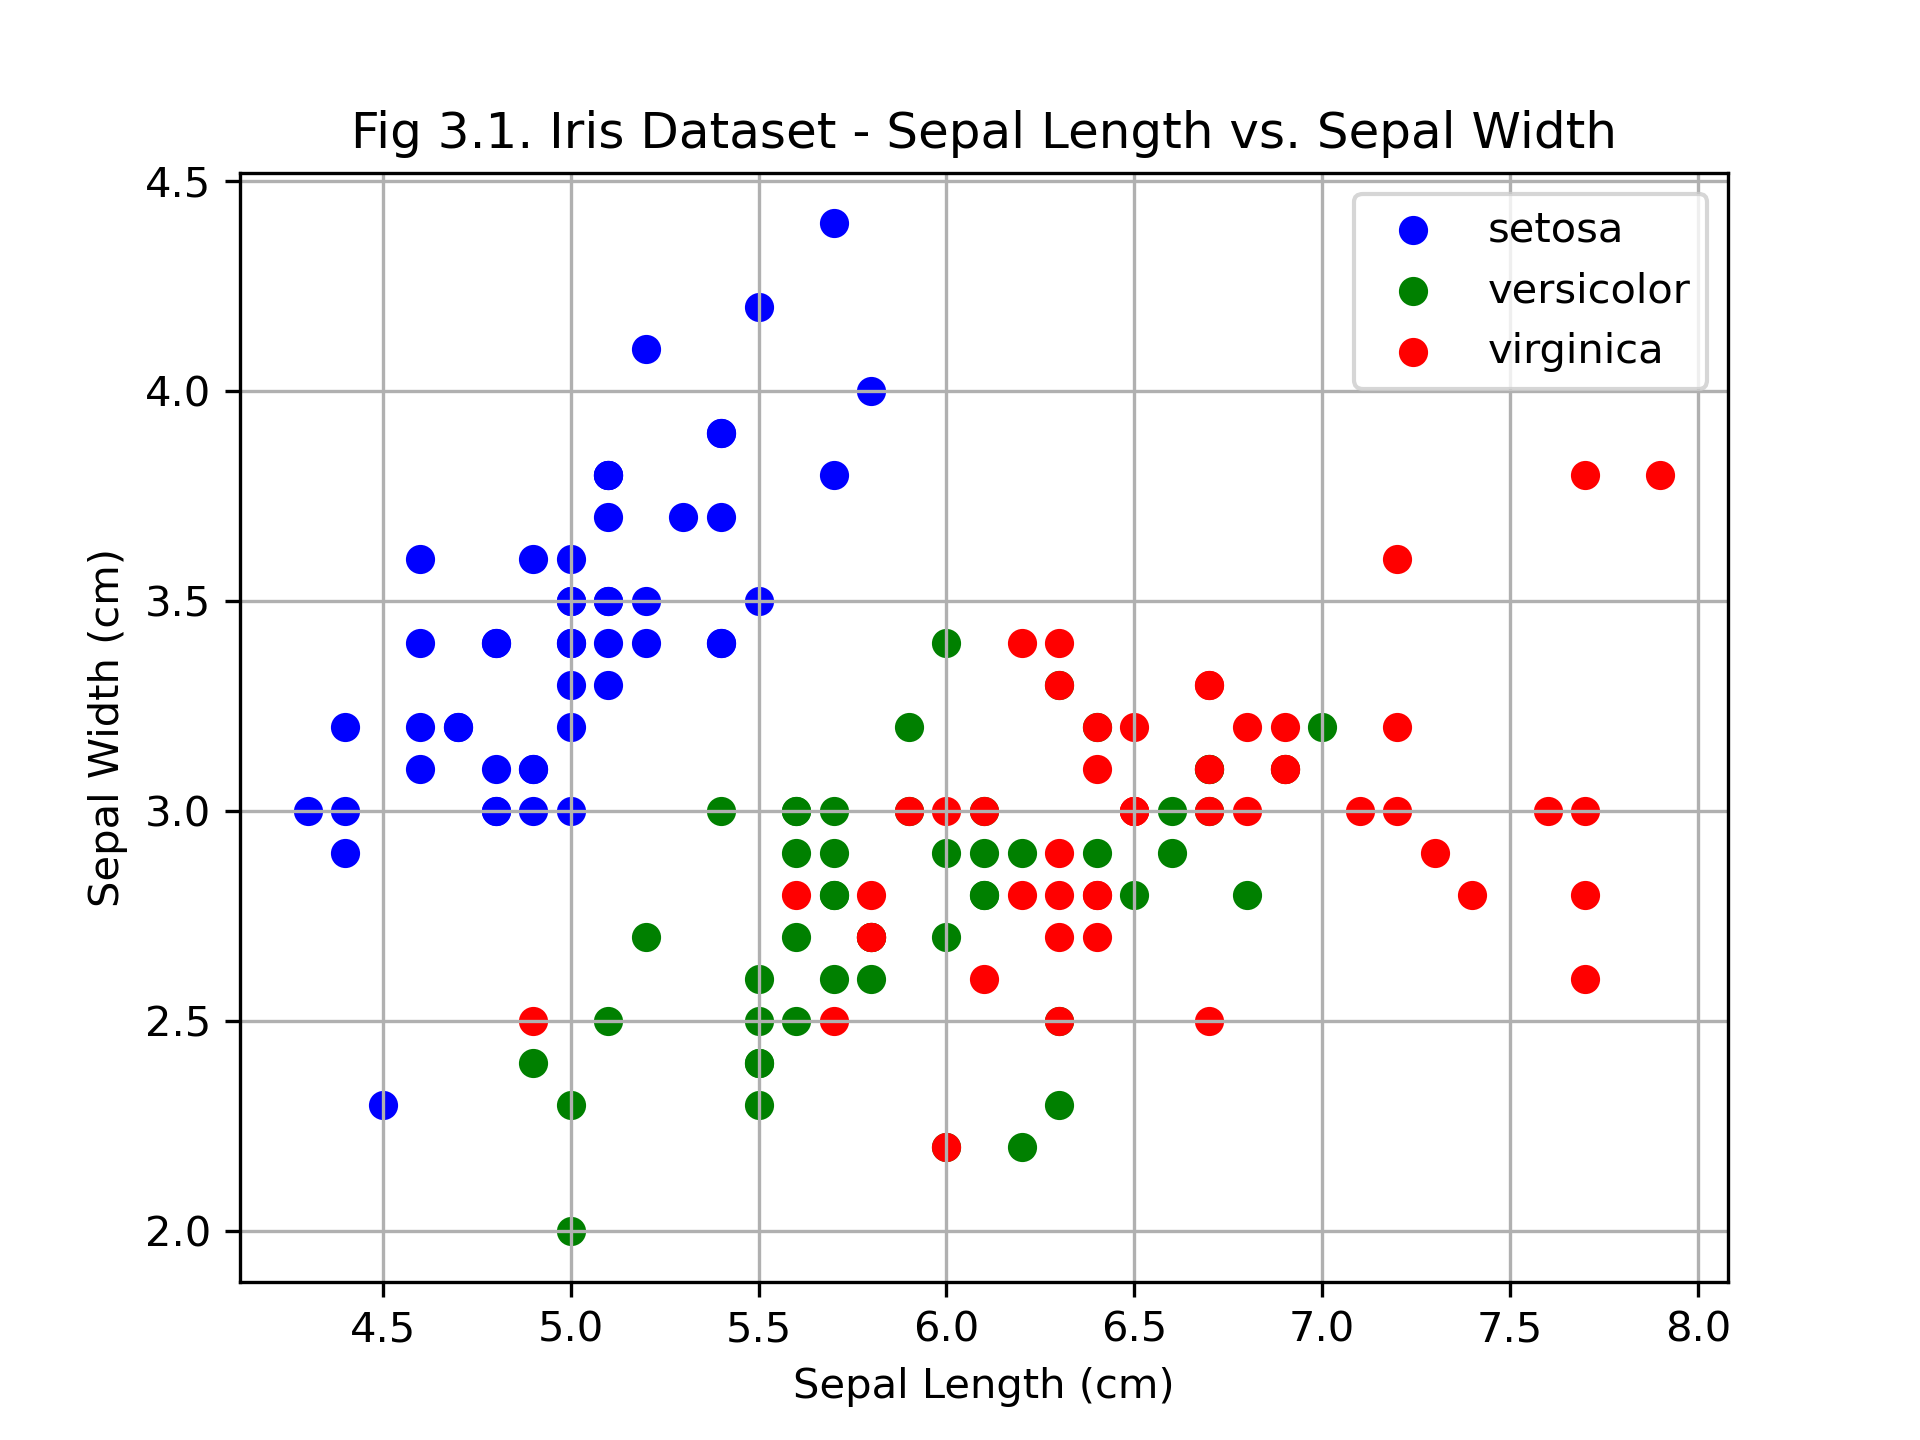
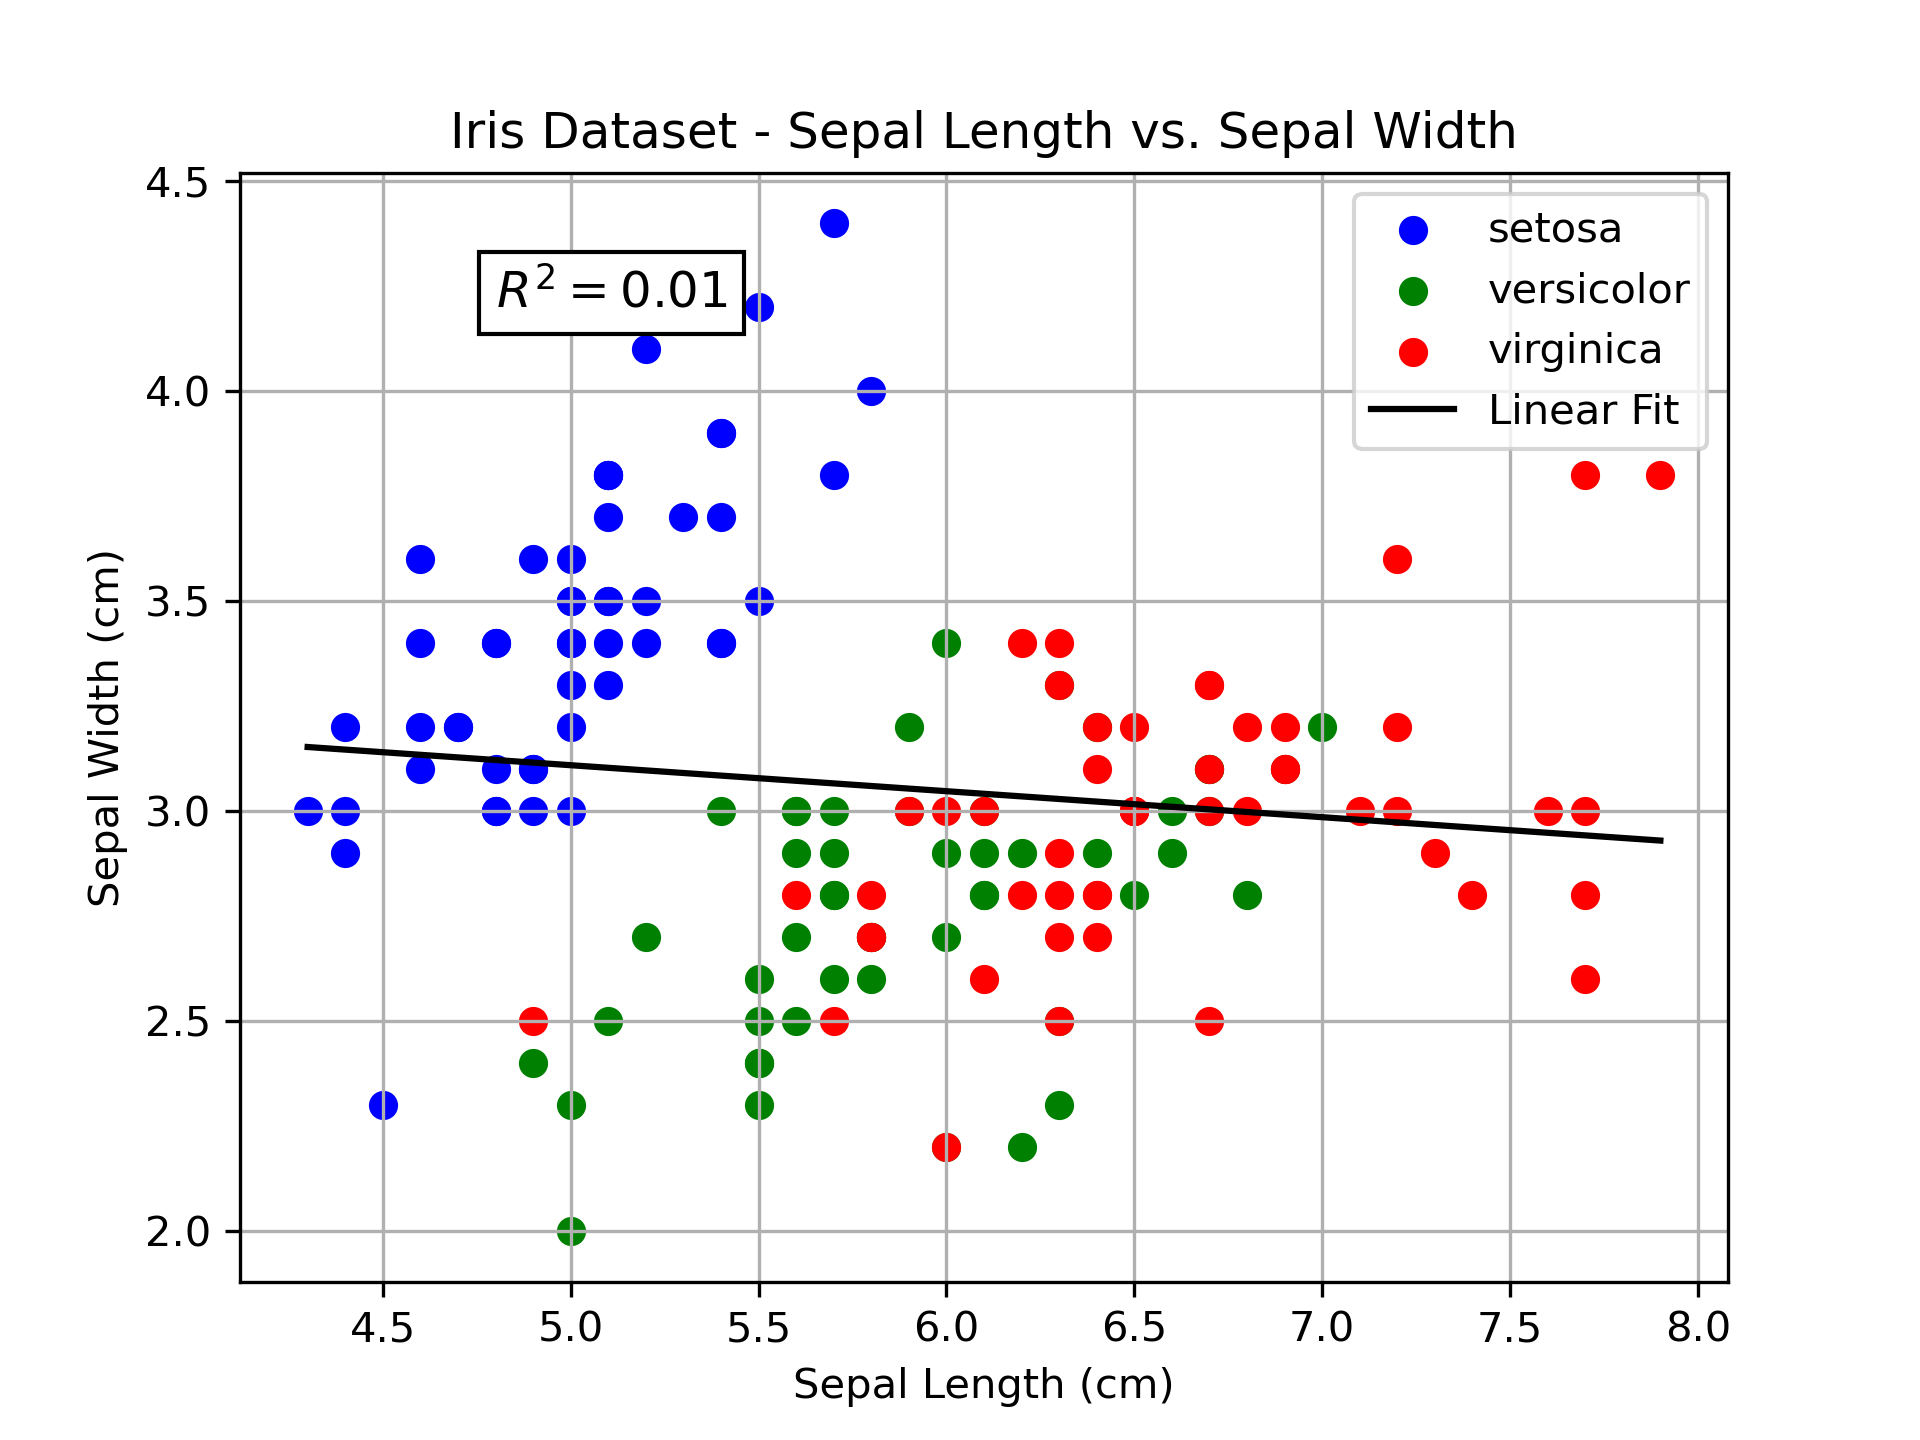
Simplified the script for creating the scatter plots while adding in a calculation for the R^2 value and adding a Linear regression Line to the plot.

diff --git a/iris-analysis.py b/iris-analysis.py
@@ -210,23 +210,28 @@ plt.show()
 os.makedirs("Scatter Plots", exist_ok = True)
 
 # 1. Sepal Length vs Sepal width
-# Creates a scatter plot using the variables provided
-plt.scatter(sepal_l[target==0], sepal_w[target==0], color = 'blue', label = target_names[0], alpha = 1)
-plt.scatter(sepal_l[target==1], sepal_w[target==1], color = 'green', label = target_names[1], alpha = 1)
-plt.scatter(sepal_l[target==2], sepal_w[target==2], color = 'red', label = target_names[2], alpha = 1)
-
-# Add labels and title to the scatter plot
+# Linear regression using numpy
+slope, intercept = np.polyfit(sepal_l, sepal_w, 1)
+y_pred = slope * sepal_l + intercept
+r2 = 1 - np.sum((sepal_w - y_pred) ** 2) / np.sum((sepal_w - np.mean(sepal_w)) ** 2)
+# Creating the Scatter Plot
+colors = ['blue', 'green', 'red']
+for i in range(3):
+    plt.scatter(sepal_l[target == i], sepal_w[target == i], color=colors[i], label=target_names[i])
+# Create an array of evenly spaced values between the minimum and maximum values of sepal_l
+x_vals = np.linspace(min(sepal_l), max(sepal_l), 100)
+plt.plot(x_vals, slope * x_vals + intercept, color='black', label='Linear Fit')
+# Adding axes labels and scatter plot title
 plt.xlabel('Sepal Length (cm)')
 plt.ylabel('Sepal Width (cm)')
-plt.title('Fig 3.1. Iris Dataset - Sepal Length vs. Sepal Width')
-
-# Adds a grid for easier comparison 
+plt.title('Iris Dataset - Sepal Length vs. Sepal Width')
+# Displays the R^2 value on the scatter plot with a white background box
+plt.text(min(sepal_l) + 0.5, max(sepal_w) - 0.2, f'$R^2 = {r2:.2f}$', fontsize=12, bbox=dict(facecolor='white'))
+# Displays a grid on the scatter plot
 plt.grid(True)
-# shows the legend using the labels provided
+# Displays a legend showing the what species the colours refer to, the R^2 value, and the Linear Regression Line
 plt.legend()
-# Saves scatter plots in "Scatter Plots" Folder
 plt.savefig("Scatter Plots/Fig 3.1. Iris Dataset - Sepal Length vs. Sepal Width.png", dpi=300)
-# Renders and displays the plot
 plt.show()
 
 # Steps are repeated for the next 5 scatter plots, linear rgeression lines and R^2 calculations, with the required variables for each plot.
